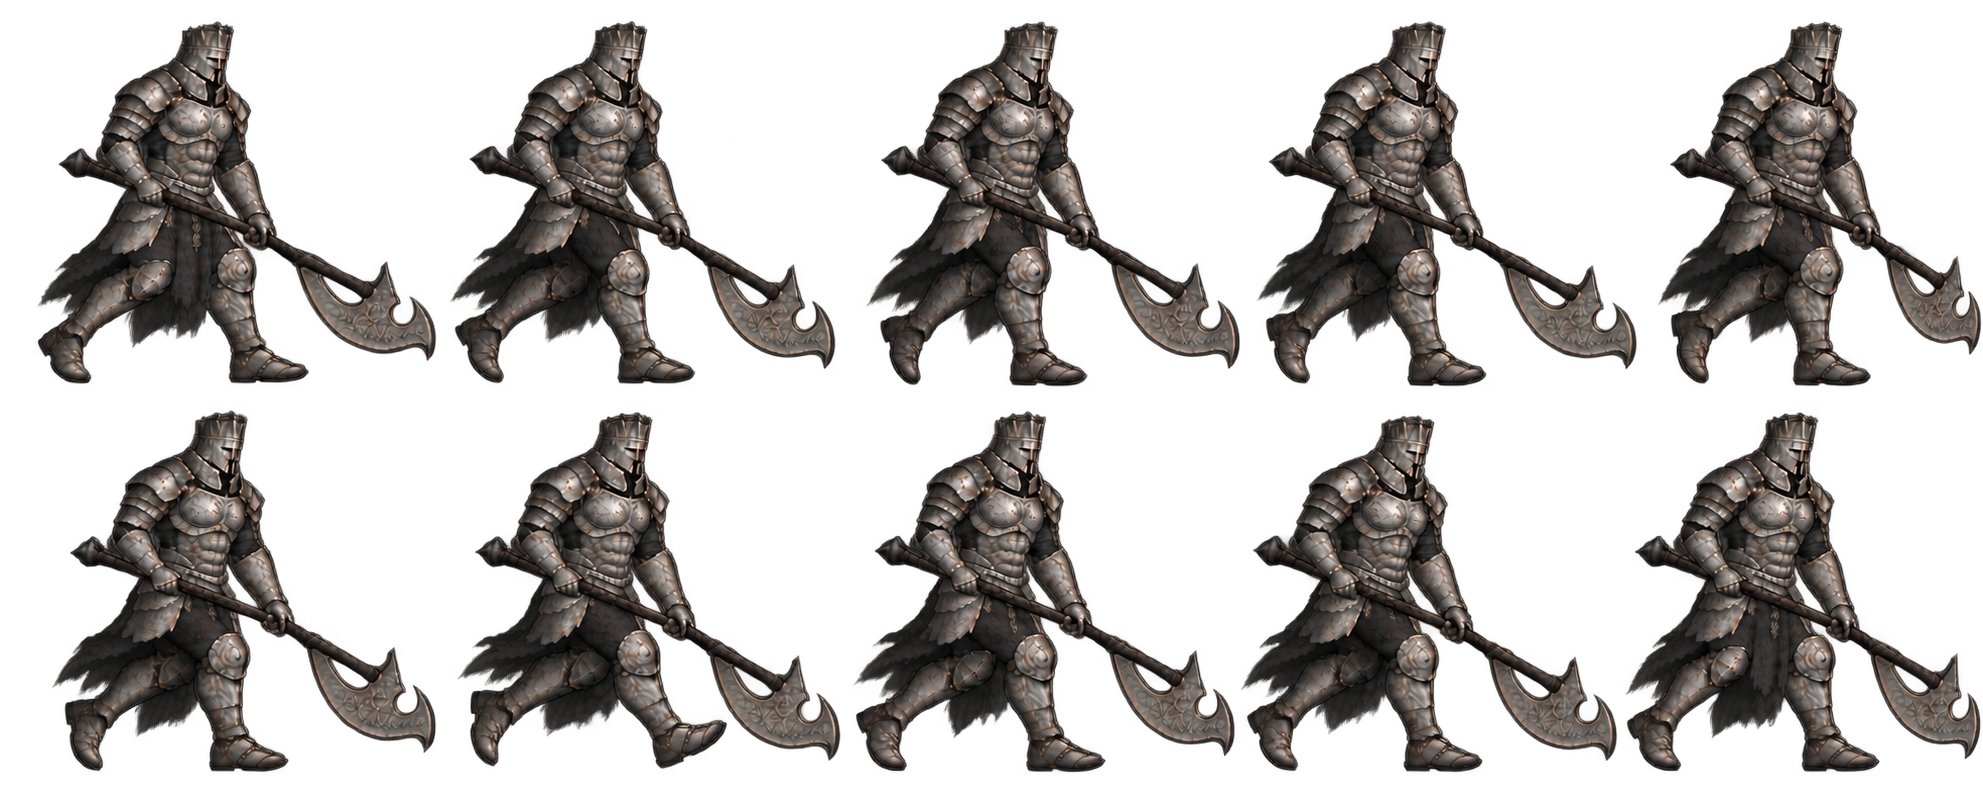
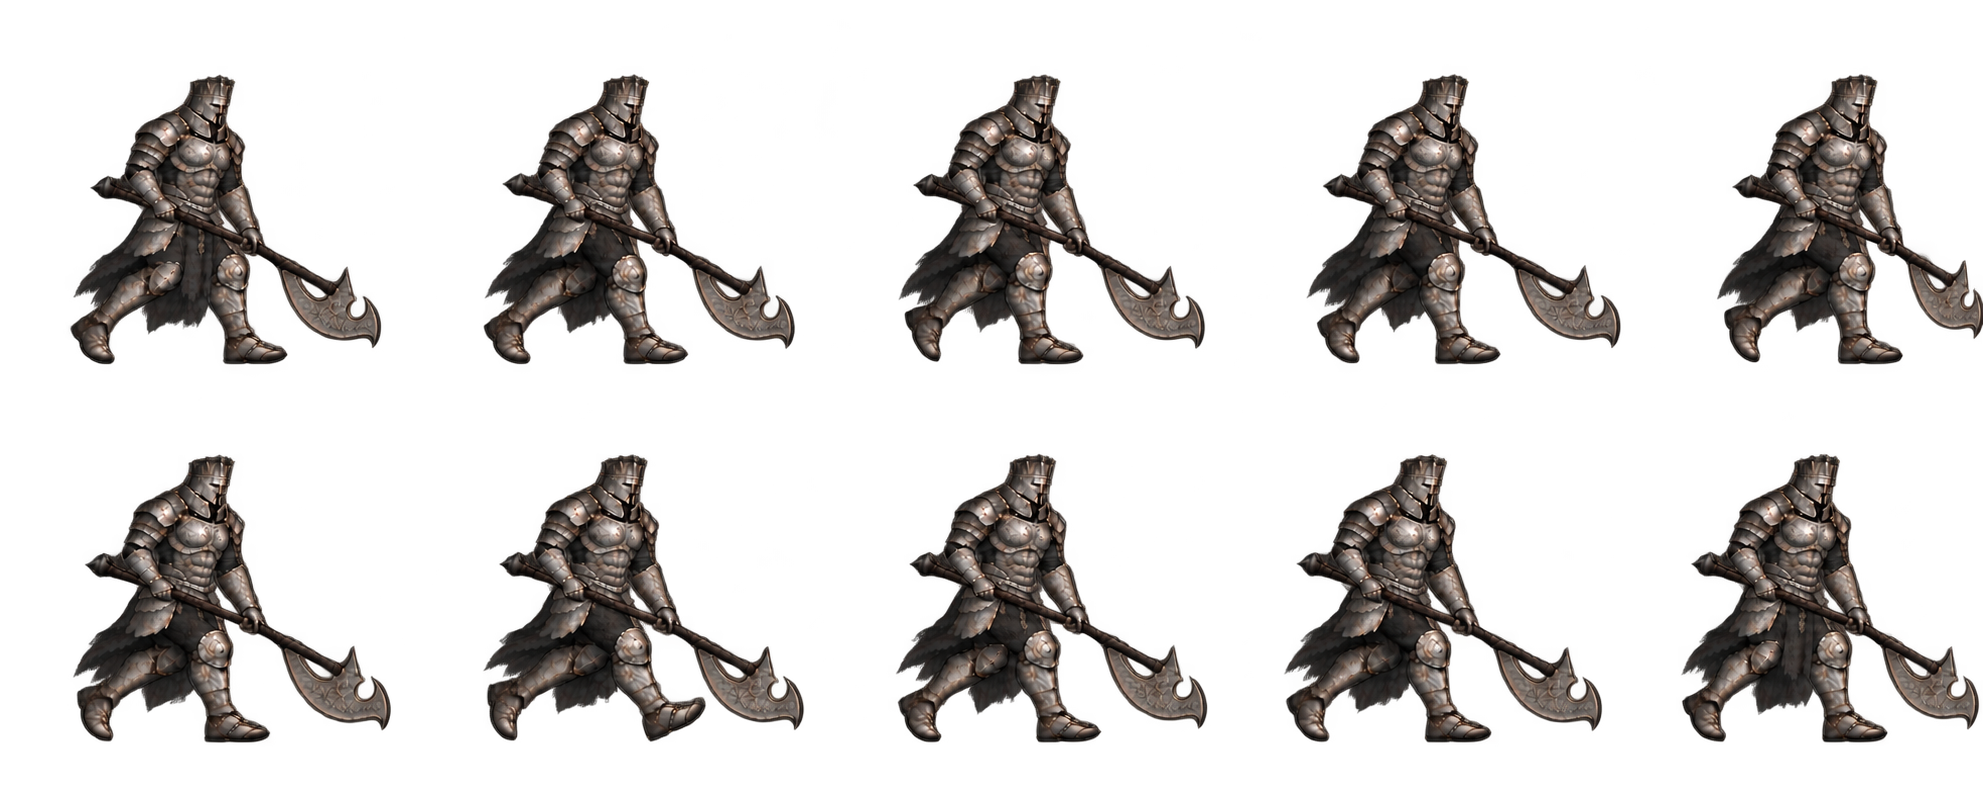
fix: stabilize Gundyr walk frames

diff --git a/prepare_independent_sprites.py b/prepare_independent_sprites.py
@@ -62,6 +62,21 @@ def opaque_bbox(surface: pygame.Surface) -> pygame.Rect:
     return result
 
 
+def upper_body_anchor_x(surface: pygame.Surface, bbox: pygame.Rect) -> float:
+    """Return a stable horizontal anchor using the helmet and shoulders.
+
+    Centering a frame by its full bounds makes the body jump whenever the
+    halberd reaches farther. The upper third excludes its blade and gives the
+    walk cycle a visually stable body axis.
+    """
+    alpha = pygame.surfarray.array_alpha(surface)
+    upper_bottom = bbox.top + max(1, round(bbox.height * 0.35))
+    occupied_x = (alpha[:, bbox.top:upper_bottom] > ALPHA_THRESHOLD).nonzero()[0]
+    if not len(occupied_x):
+        return bbox.width / 2
+    return float(median(occupied_x)) - bbox.left
+
+
 def closest_clear_separator(values, nominal: int, radius: int) -> int:
     """Find a transparent line close to an expected invisible grid division."""
     low = max(1, nominal - radius)
@@ -117,15 +132,30 @@ def build_strip(prefix: str, animation: str, target_neutral_height: int):
     source_path = SOURCE_DIR / f"{source_prefix}_{animation}.png"
     sheet = pygame.image.load(source_path).convert_alpha()
     frames, metadata = split_grid(sheet)
+    frame_scale_multipliers = [1.0] * len(frames)
+    walk_key_heights = None
 
     # The walk source keeps the ten strong key poses. A second sheet contains
     # one transition pose after each key (including the loop from 10 back to
     # 1), so interleaving them produces a smoother 20-frame cycle without
     # weakening the readable foot contacts of the original animation.
     if prefix == "gundyr" and animation == "walk":
+        walk_key_heights = [metadata[0][0].height, metadata[-1][0].height]
+        key_neutral_height = median(walk_key_heights)
         inbetween_path = SOURCE_DIR / "boss_walk_inbetweens.png"
         inbetween_sheet = pygame.image.load(inbetween_path).convert_alpha()
         inbetween_frames, inbetween_metadata = split_grid(inbetween_sheet)
+        # The fifth generated transition touched the outer sheet edge. Reuse
+        # its matching clean key pose instead of ever exporting a clipped or
+        # duplicated axe head.
+        inbetween_frames[4] = frames[4].copy()
+        inbetween_metadata[4] = metadata[4]
+        inbetween_neutral_height = median(
+            (inbetween_metadata[0][0].height, inbetween_metadata[-1][0].height)
+        )
+        inbetween_scale = key_neutral_height / inbetween_neutral_height
+        inbetween_multipliers = [inbetween_scale] * GRID_COLUMNS * GRID_ROWS
+        inbetween_multipliers[4] = 1.0
         frames = [
             frame
             for pair in zip(frames, inbetween_frames)
@@ -136,11 +166,21 @@ def build_strip(prefix: str, animation: str, target_neutral_height: int):
             for pair in zip(metadata, inbetween_metadata)
             for frame_metadata in pair
         ]
+        frame_scale_multipliers = [
+            multiplier
+            for pair in zip(
+                [1.0] * GRID_COLUMNS * GRID_ROWS,
+                inbetween_multipliers,
+            )
+            for multiplier in pair
+        ]
 
     # Death ends in a deliberately short lying pose. Scale from the initial
     # standing frame so the armor remains the same size as the other strips.
     if prefix == "hero" and animation == "death":
         anchor_heights = [metadata[0][0].height]
+    elif walk_key_heights is not None:
+        anchor_heights = walk_key_heights
     else:
         anchor_heights = [metadata[0][0].height, metadata[-1][0].height]
     scale = target_neutral_height / median(anchor_heights)
@@ -153,36 +193,55 @@ def build_strip(prefix: str, animation: str, target_neutral_height: int):
             ground = top_ground if row == 0 else bottom_ground
             lifts[index] = max(0.0, ground - bbox.bottom)
 
+    stable_body_anchor = prefix == "gundyr" and animation == "walk"
     prepared = []
-    for frame, (bbox, _), lift in zip(frames, metadata, lifts):
-        cropped = frame.subsurface(bbox).copy()
-        size = (
-            max(1, round(cropped.get_width() * scale)),
-            max(1, round(cropped.get_height() * scale)),
+    for frame, (bbox, _), lift, multiplier in zip(
+        frames, metadata, lifts, frame_scale_multipliers
+    ):
+        anchor_x = (
+            upper_body_anchor_x(frame, bbox)
+            if stable_body_anchor
+            else bbox.width / 2
         )
+        cropped = frame.subsurface(bbox).copy()
+        frame_scale = scale * multiplier
+        size = (
+            max(1, round(cropped.get_width() * frame_scale)),
+            max(1, round(cropped.get_height() * frame_scale)),
+        )
+        scaled = pygame.transform.smoothscale(cropped, size)
         prepared.append(
             (
-                pygame.transform.smoothscale(cropped, size),
-                round(lift * scale),
+                scaled,
+                round(lift * frame_scale),
+                round(anchor_x * frame_scale),
             )
         )
 
-    cell_width = (
-        max(frame.get_width() for frame, _ in prepared)
-        + HORIZONTAL_PADDING * 2
-    )
+    if stable_body_anchor:
+        left_extent = max(anchor for _, _, anchor in prepared)
+        right_extent = max(frame.get_width() - anchor for frame, _, anchor in prepared)
+        cell_width = left_extent + right_extent + HORIZONTAL_PADDING * 2
+        body_axis = HORIZONTAL_PADDING + left_extent
+    else:
+        cell_width = (
+            max(frame.get_width() for frame, _, _ in prepared)
+            + HORIZONTAL_PADDING * 2
+        )
     cell_height = (
-        max(frame.get_height() + lift for frame, lift in prepared)
+        max(frame.get_height() + lift for frame, lift, _ in prepared)
         + TOP_PADDING
         + BOTTOM_PADDING
     )
     strip = pygame.Surface((cell_width * len(prepared), cell_height), pygame.SRCALPHA)
     baseline = cell_height - BOTTOM_PADDING
 
-    for index, (frame, lift) in enumerate(prepared):
+    for index, (frame, lift, anchor) in enumerate(prepared):
         isolated_cell = pygame.Surface((cell_width, cell_height), pygame.SRCALPHA)
         destination = (
-            (cell_width - frame.get_width()) // 2,
+            body_axis - anchor
+            if stable_body_anchor
+            else (cell_width - frame.get_width()) // 2,
             baseline - lift - frame.get_height(),
         )
         isolated_cell.blit(frame, destination)
